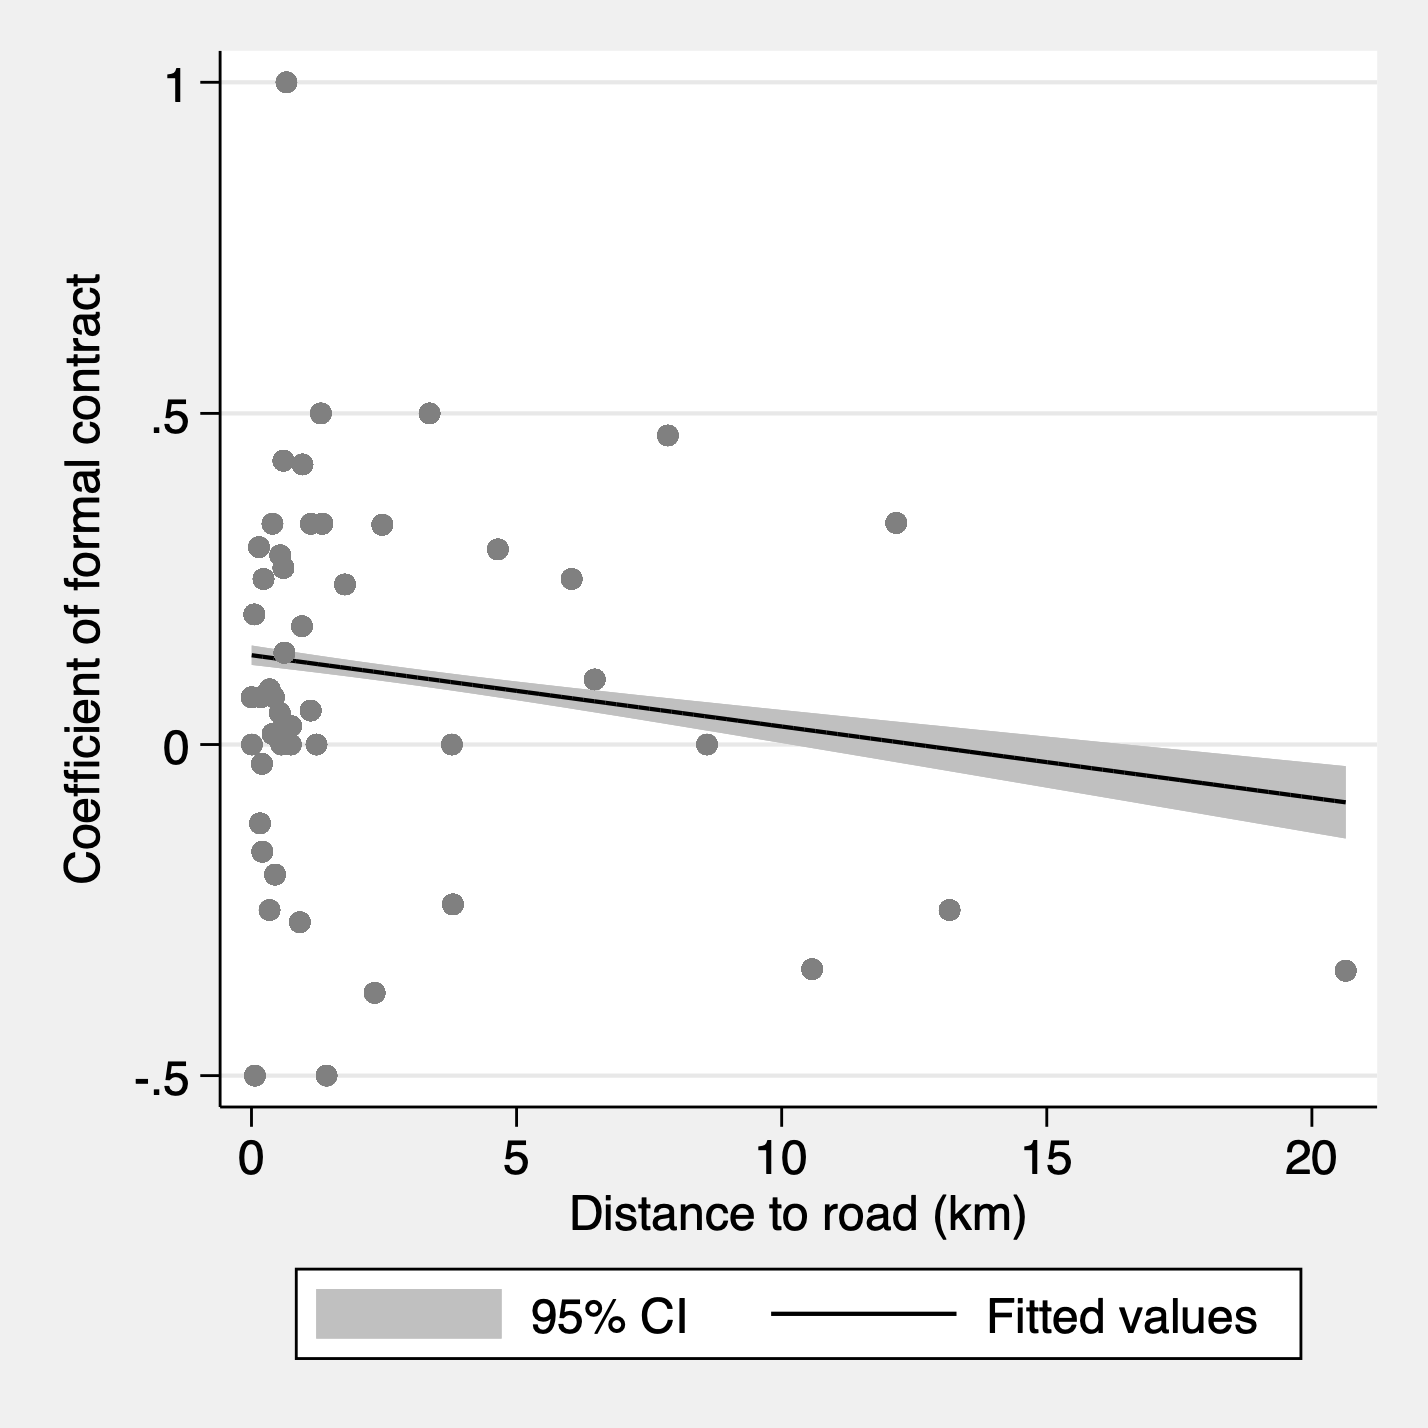
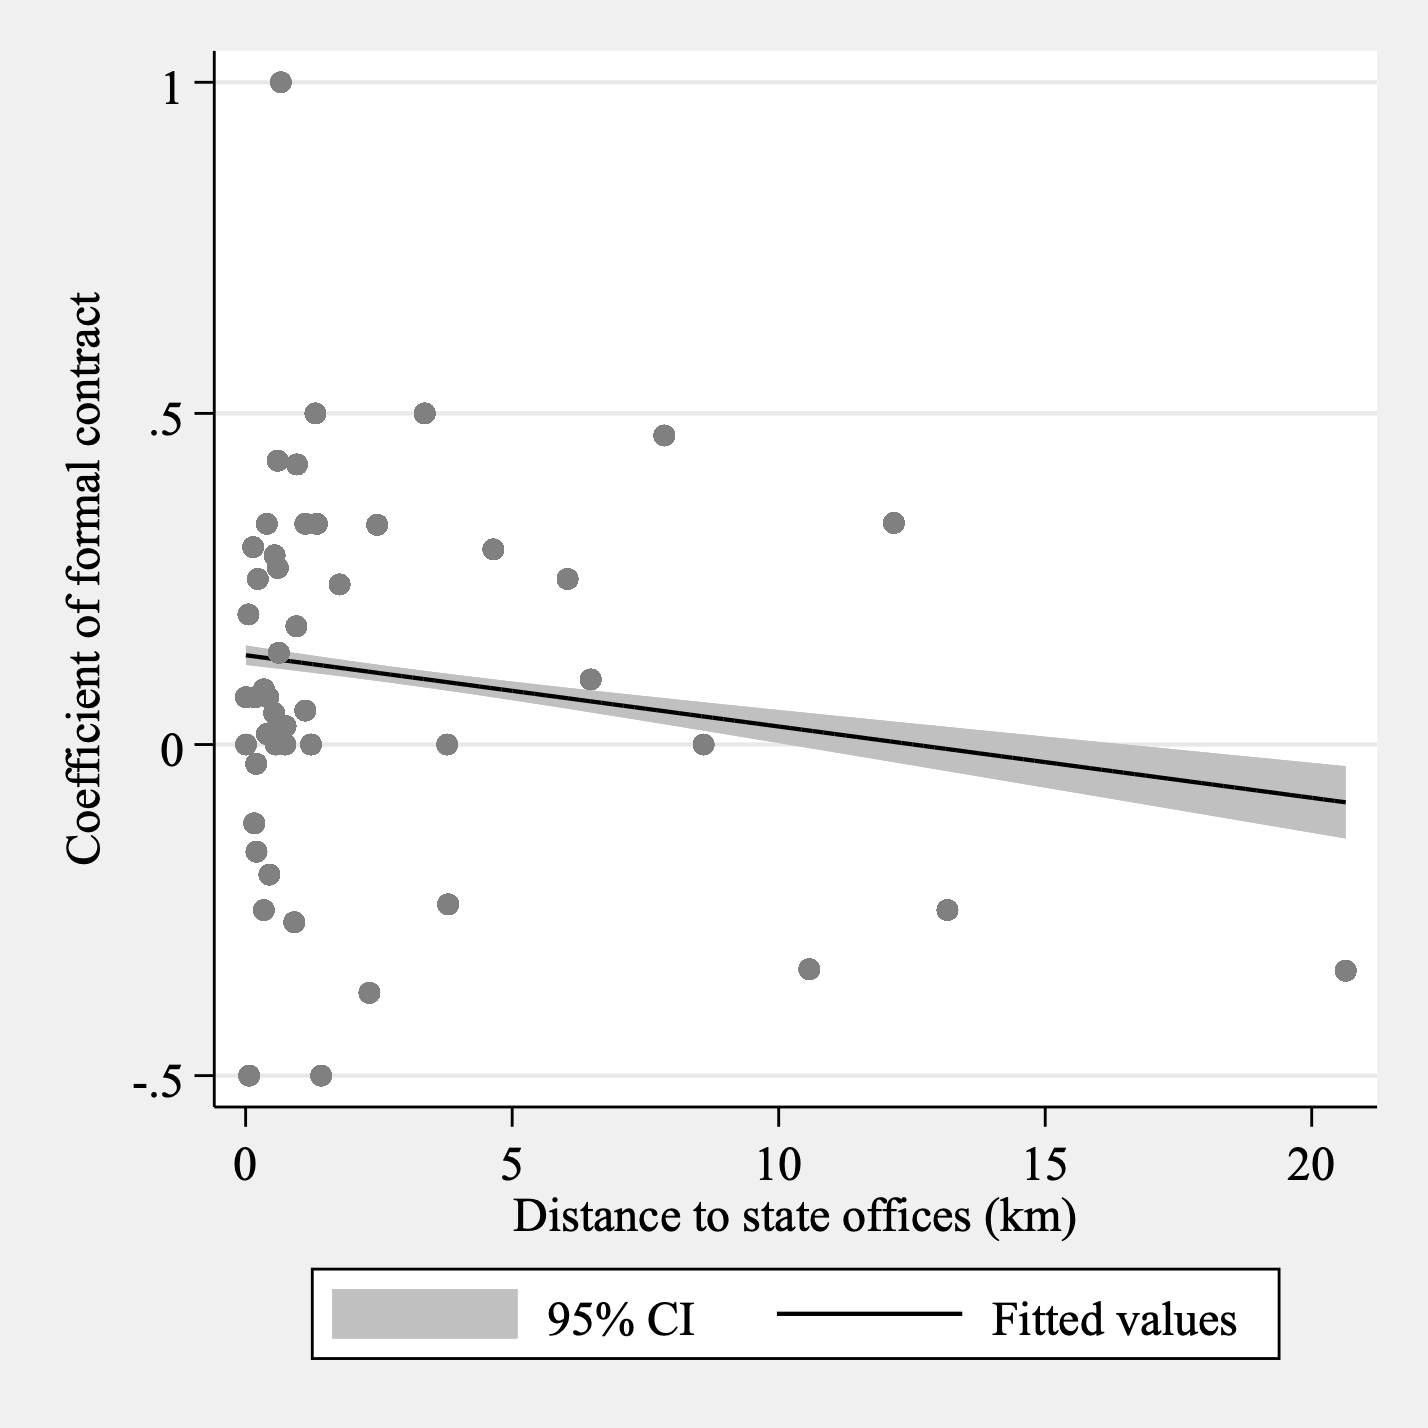
Update figures

diff --git a/_pages/about.md b/_pages/about.md
@@ -28,17 +28,17 @@ My research focuses on political, behavioral and development economics. My resea
 <p align="center">
 <img src="/images/quota-figure.png" alt="drawing" width="600"/>
 </p>
-<left>63% unofficial police income is generated through a “quota scheme:” managers at police stations ask agents posted at street intersections to escort drivers to the stations, where the managers extract a bribe from the drivers. Experimentally decreasing the quota worsens the agency’s ability to to manage traffic, while not improving its ability to enforce the traffic code.</left> 
+<left>We analyze the organization of corruption in a state agency. The dual mandate of the Democratic Republic of the Congo’s traffic police agency is to manage traffic and to enforce the traffic code. We first document that, in the capital’s branch, Kinshasa, traffic violation fines account for only 22% of the revenue of the branch. The remaining 78%, unofficial, comes from bribes paid by drivers, of which 63% is generated through a “quota scheme:” managers at police stations ask agents posted at street intersections to escort drivers to the stations, where the managers extract a bribe from the drivers. Experimentally decreasing the quota, hence mitigating its effect, we find that the quota scheme worsens the agency’s ability to fulfill its first mandate, while not improving its ability to fulfill the second. First, the quota causes 65% of all traffic jams and almost all accidents at the branch’s intersections. Second, we find evidence suggesting that it fuels false allegations against drivers—extortion—at a higher rate than it fuels true ones, consistent with the scheme not creating incentives to comply with the code. The findings emphasize that the manager’s demand for unofficial revenue is significant and creates profits and distortions beyond those that would be made possible via corruption by individual state officials.</left> 
 
 ### Unofficial Revenue by Distributional Concerns
 <p align="center">
 <img src="/images/income-figure.png" alt="drawing" width="600"/>
 </p>
-<left>We conduct a randomized cash transfer with the police agents where agents receive a payment perceived to be an unofficial perk from office and equal to their bribe revenue. 30% of that extra income is informally taxed away by the agents' commanders.</left> 
+<left>Covert payments from state officials to their supervisors (supervisor kickbacks) are a frequently overlooked phenomenon. We conduct a within-individual randomized cash transfer in the Democratic Republic of the Congo’s traffic police agency to analyze supervisor kickbacks. First, kickbacks are widespread with average and marginal kickback rates similar to income taxation in Western European countries, but vary enormously between state officials. Supervisors are  able to learn about the top-up income of the officials they supervise. Kickbacks are progressive, with steeply increasing marginal kickback rates. Second, kickbacks are, in part, motivated by the reduction of inequality between the officials. Third,  failing to include supervisor/agent collusion vastly underestimates how prohibitive it is to reduce corruption through government official compensation if the supervisor cares about his revenue from kickbacks. These findings suggest that  unofficial systems of corruption are in part governed by inequality concerns and can significantly hamper the benefits of policies that ignore them.</left> 
 
 ### Decay of State Capacity Over Distance 
 <p align="center">
 <img src="/images/capacity-figure.png" alt="drawing" width="500"/>
 </p>
-<left>By measuring the rate of decay of state capacity over distance to the state offices, I find that each kilometer away from a state office, state capacity decreases in 5%.</left> 
+<left>I present one measure of state capacity and applies it to characterize how state capacity varies over space. To identify economic operators' belief about legal capacity, I use a sale on credit design, in which buyers have room to defect on a promise to pay within three days, and randomized whether the buyers sign a formal contract invoking legal sanctions if they fail to pay. I use the estimation to analyze the buyers' implied unobservable belief about the cost faced by the buyer upon violating the formal contract. Using counterfactuals, I show that, on average, the level of state capacity is 21\% of the level that would bring cheating to 1\%. I then measure the rate of decay of such  state capacity so-defined over the distance to the state offices. I find that each kilometer away from a state office, state capacity decreases by 5\%. My findings represent a first attempt to empirically quantify  legal capacity as defined in the theoretical literature, and use that to show that state weakness is heterogeneous over space.</left> 
 
